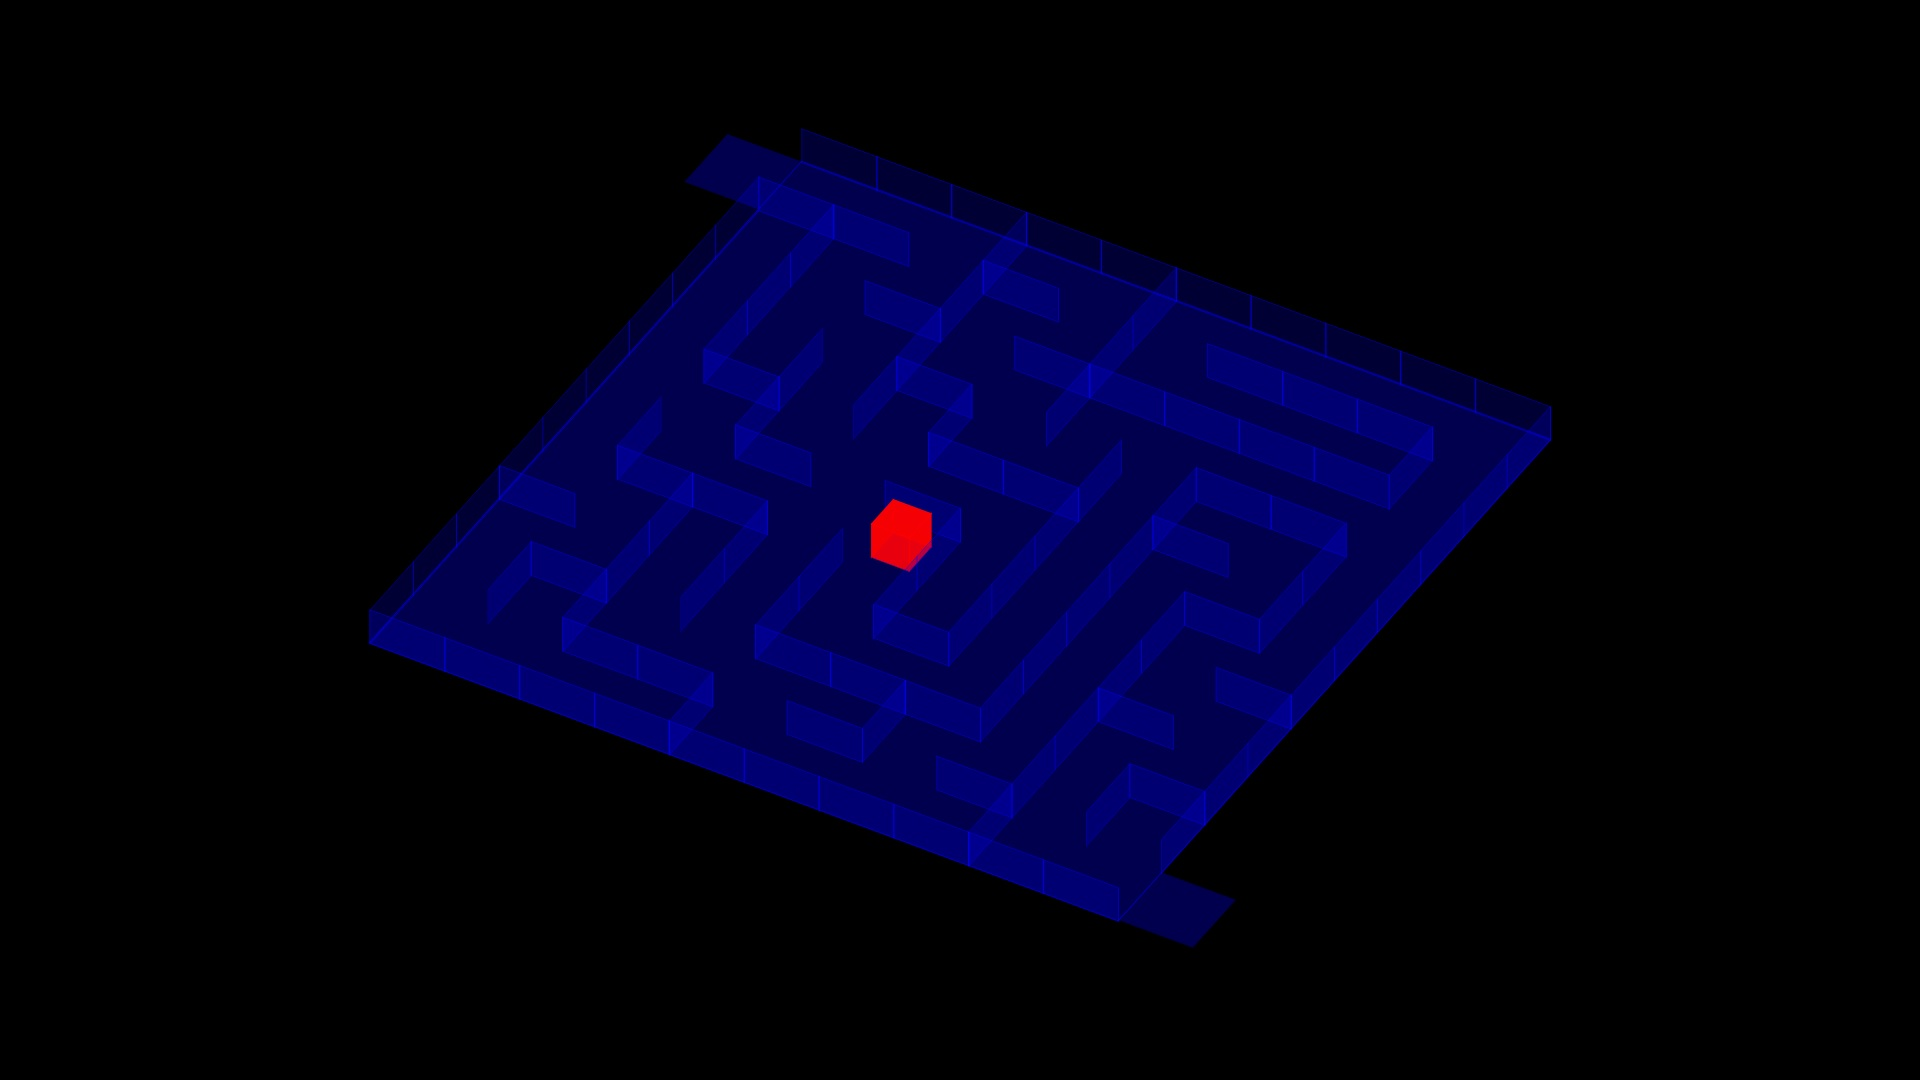
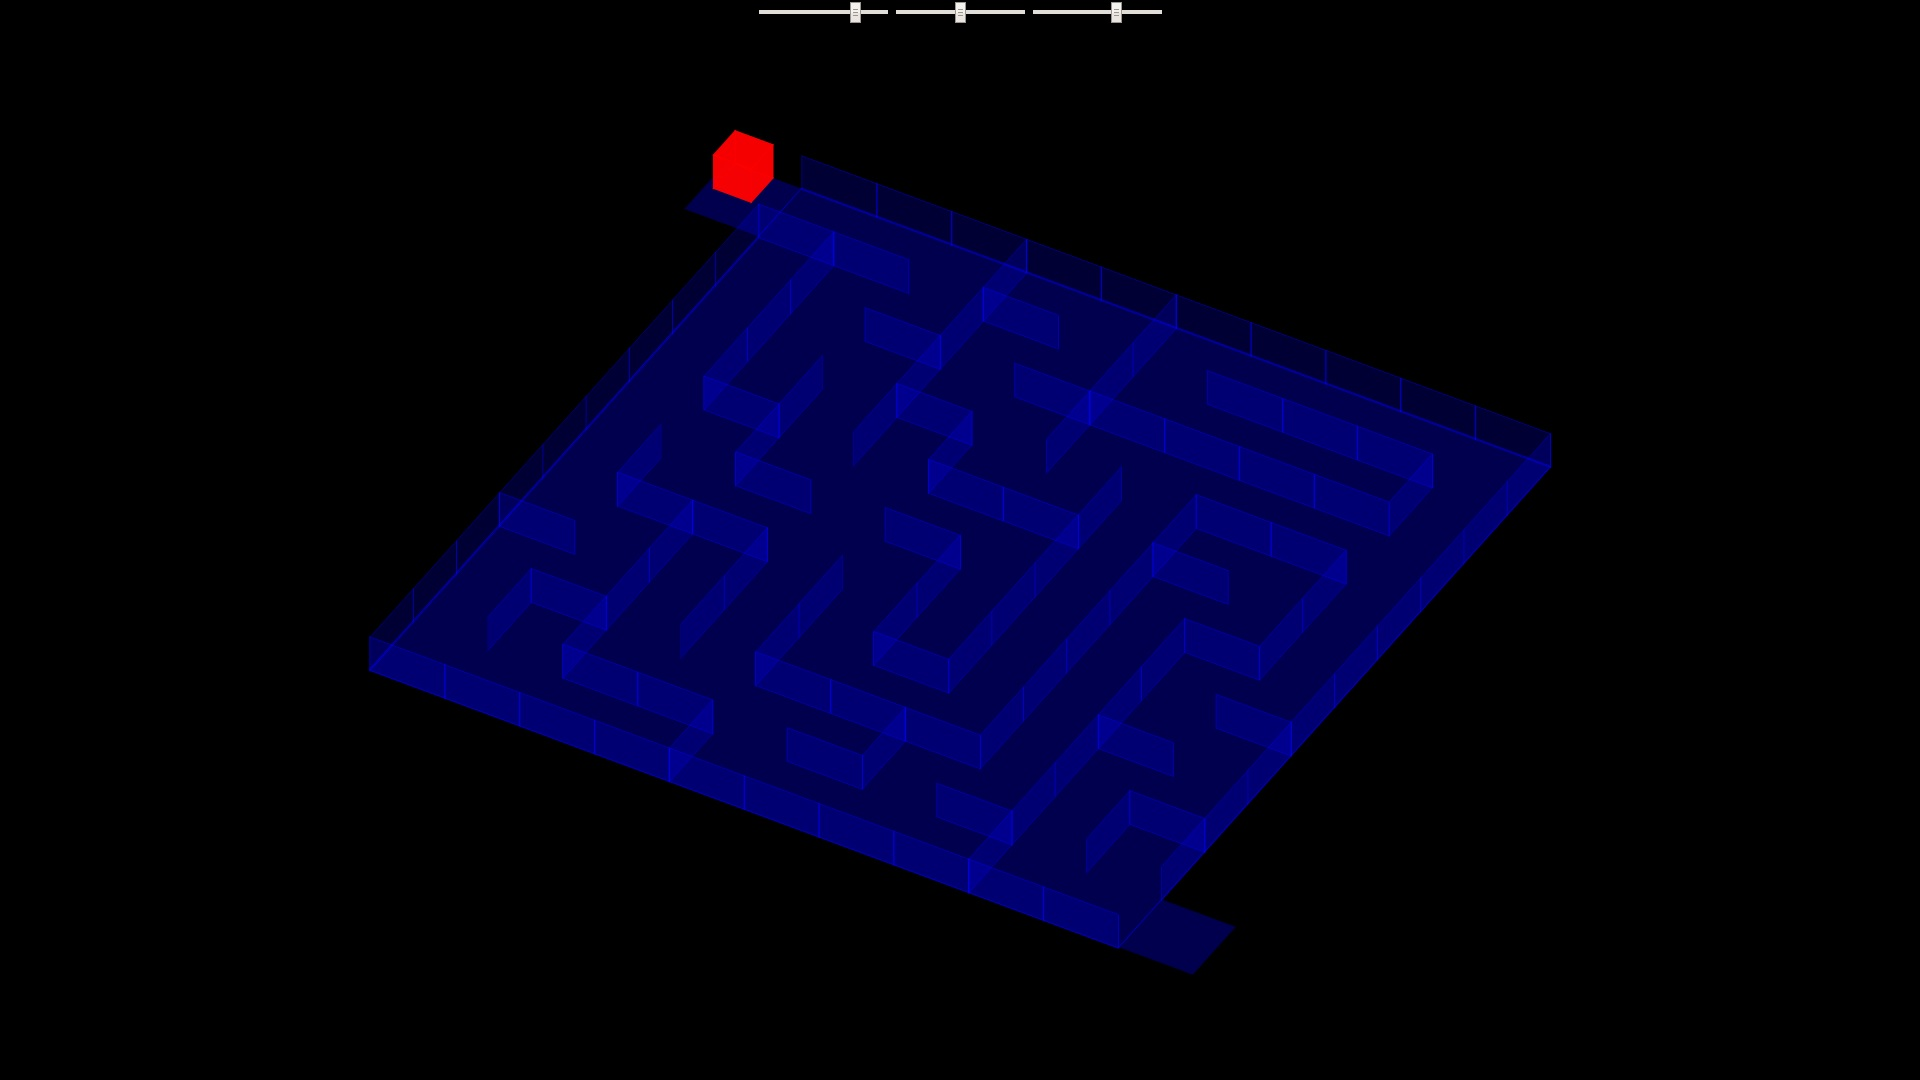
15th commit

Changed region(s): [[0.1875, 0.1222, 0.8125, 0.9167], [0.4062, 0.0, 0.5938, 0.0306]]

diff --git a/MyProject_03/script.js b/MyProject_03/script.js
@@ -1,0 +1,178 @@
+var labyrinthArray = [[[0,1,0,0],[0,1,0,1],[0,1,0,1],[0,0,1,1],[0,1,0,0],[0,0,1,1],[0,1,1,0],[0,1,0,1],[0,1,0,1],[0,1,0,1],[0,0,1,1]],	//	1
+					  [[0,0,0,0],[0,0,1,0],[0,1,1,0],[1,0,0,1],[0,1,1,0],[1,0,0,1],[1,1,0,0],[0,1,0,1],[0,1,0,1],[0,0,0,1],[1,0,1,0]],	//	2
+					  [[0,0,0,0],[1,0,1,0],[1,1,1,0],[0,0,1,1],[1,1,0,0],[0,0,1,1],[0,1,1,0],[0,1,1,1],[0,1,0,1],[0,1,0,1],[1,0,1,1]],	//	3
+					  [[0,0,0,0],[1,0,1,0],[1,0,0,0],[1,0,1,0],[0,0,1,0],[1,1,0,0],[1,0,0,1],[1,0,1,0],[0,1,0,0],[0,0,1,1],[1,0,1,0]],	//	4
+					  [[0,0,0,0],[1,1,1,0],[0,0,1,1],[1,1,0,0],[1,1,1,1],[0,1,0,1],[0,0,1,1],[1,0,1,0],[0,1,1,0],[1,0,0,1],[1,0,1,0]],	//	5
+					  [[0,0,0,0],[1,0,1,0],[1,1,0,0],[0,1,0,1],[1,1,1,1],[0,0,1,1],[1,0,1,0],[1,0,1,0],[1,0,1,0],[0,1,1,0],[1,0,0,1]],	//	6
+					  [[0,0,0,0],[1,1,0,0],[0,0,1,1],[0,0,1,0],[1,0,1,0],[1,0,1,0],[1,0,0,0],[1,0,1,0],[1,0,1,0],[1,1,0,0],[0,0,1,1]],	//	7
+					  [[0,0,0,0],[0,1,1,0],[1,0,0,1],[1,0,1,0],[1,0,1,0],[1,1,0,0],[0,1,0,1],[1,0,0,1],[1,0,1,0],[0,1,1,0],[1,0,0,1]],	//	8
+					  [[0,0,0,0],[1,0,1,0],[0,0,1,0],[1,1,0,0],[1,1,0,1],[0,1,1,1],[0,0,0,1],[0,1,1,0],[1,0,0,1],[1,0,1,0],[0,0,1,0]],	//	9
+					  [[0,0,0,0],[1,1,0,0],[1,1,0,1],[0,1,0,1],[0,0,0,1],[1,1,0,0],[0,1,0,1],[1,1,0,1],[0,0,0,1],[1,1,0,0],[1,1,0,1],[0,0,0,1]]]; // 10
+
+var fenceArray =  [[[0,-2],[8,-2],[16,-2],[24,-2],[32,-2],[40,-2],[48,-2],[56,-2],[64,-2],[72,-2],
+					[0,6], [8,6],         [24,6],                 [48,6], [56,6], [64,6],
+					              [16,14],        [32,14],[40,14],[48,14],[56,14],[64,14],
+					                      [24,22],                        [56,22],[64,22],
+					       [8,30],                [32,30],[40,30],        [56,30],
+                                  [16,38],        [32,38],                        [64,38],
+                           [8,46],[16,46],                                                [72,46],
+                    [0,54],                               [40,54],                [64,54],
+                           [8,62],                [32,62],[40,62],[48,62],                [72,62],
+                                  [16,70],[24,70],        [40,70],        [56,70],
+					[0,78],[8,78],[16,78],[24,78],[32,78],[40,78],[48,78],[56,78],[64,78],[72,78]],
+
+				   [	   [-4,10],[-4,18],[-4,26],[-4,34],[-4,42],[-4,50],[-4,58],[-4,66],[-4,74],
+				           [ 4,10],[ 4,18],[ 4,26],        [ 4,42],                [ 4,66],
+				                           [12,26],[12,34],        [12,50],[12,58],[12,66],
+				    [20,2],[20,10],[20,18],[20,26],                [20,50],[20,58],
+				                           [28,26],                [28,50],[28,58],        [28,74],
+				    [36,2],[36,10],[36,18],                [36,42],[36,50],
+				                           [44,26],[44,34],[44,42],[44,50],        [44,66],
+				                           [52,26],[52,34],[52,42],[52,50],[52,58],
+				                                           [60,42],[60,50],[60,58],[60,66],[60,74],
+				           [68,10],        [68,26],[68,34],                        [68,66],
+					[76,2],[76,10],[76,18],[76,26],[76,34],[76,42],[76,50],[76,58],[76,66]]];
+
+var x = 50;		// angle of rotation of objYard
+var y = 0;
+var z = 30;
+
+var x2 = -6;	// coordinates of objRabbit
+var y2 = 2;
+
+$('body').css({	'margin': '0 auto',
+				'background-color': 'black',
+				'overflow': 'hidden',
+				'text-align': 'center'
+			});
+
+var objYard = document.createElement('div');
+$('body').append(objYard);
+$(objYard).addClass('preserve3d');
+objYard.style.transform = 'rotateX(' + x + 'deg) rotateY(' + y + 'deg) rotateZ(' + z + 'deg)';
+$(objYard).css({	'height': '80vh',
+					'width': '80vh',
+					'margin': '10vh auto',
+					'border': '1px solid rgba(0,0,255,0.5)',
+					'background-color': 'rgba(0,0,255,0.3)'
+				});
+
+var objStart = document.createElement('div');
+$(objYard).append(objStart);
+objStart.style.transform = 'translateX(-8vh)';
+$(objStart).css({	'height': '8vh',
+					'width': '8vh',
+					'position': 'absolute',
+					'background-color': 'rgba(0,0,255,0.3)'
+				});
+
+var objFinish = document.createElement('div');
+$(objYard).append(objFinish);
+objFinish.style.transform = 	'translateX(80vh) translateY(72vh) ';
+$(objFinish).css({	'height': '8vh',
+					'width': '8vh',
+					'position': 'absolute',
+					'background-color': 'rgba(0,0,255,0.3)'
+				});
+
+function createFence(a,r) {
+	var objFence = document.createElement('div');
+	$(objYard).append(objFence);
+	objFence.style.transform = 	'translateX(' + a[0] + 'vh) ' + 
+								'translateY(' + a[1] + 'vh) ' +
+								'translateZ(2vh) ' +
+								'rotateX(90deg)' + r;
+	$(objFence).css({	'height': '4vh',
+						'width': '8vh',
+						'position': 'absolute',
+						'border': '1px solid rgba(0,0,255,0.5)',
+						'background-color': 'rgba(0,0,255,0.2)'
+					});
+}
+
+for (var i = 0; i < fenceArray[0].length; i++) {
+	createFence(fenceArray[0][i],'');
+}
+for (var i = 0; i < fenceArray[1].length; i++) {
+	createFence(fenceArray[1][i],' rotateY(90deg)');
+}
+
+var objRabbit = document.createElement('div');
+$(objYard).append(objRabbit);
+objRabbit.style.transform = 'translateX(' + x2 + 'vh) translateY(' + y2 + 'vh) translateZ(2vh)';
+objRabbit.style.transition = 'transform 0.25s';
+$(objRabbit).css({	'height': '8vh',
+					'width': '8vh',
+					'position': 'absolute'
+				});
+
+var rabbitArray = ['', 'rotateY(180deg)', 'rotateY(-90deg)', 'rotateY(90deg)', 'rotateX(90deg)', 'rotateX(-90deg)'];
+
+for (var i = 0; i < rabbitArray.length; i++) {
+	var obj = document.createElement('div');
+	$(objRabbit).addClass('preserve3d');
+	$(objRabbit).append(obj);
+	$(obj).css({	'height': '4vh',
+					'width': '4vh',
+					'margin': '0 auto',
+					'position': 'absolute',
+					'border': '1px solid rgba(255,0,0,0.2)',
+					'background-color': 'rgba(255,0,0,0.8)',
+					'transform': rabbitArray[i] + 'translateZ(2vh)'
+				});
+};
+
+var IntervalId = setInterval(function() {
+	objRabbit.style.transform = 'translateX(' + x2 + 'vh) translateY(' + y2 + 'vh) translateZ(4vh)';
+	objRabbit.style.transition = 'transform 0.25s';
+
+	var TimerId = setTimeout(function() {
+		objRabbit.style.transform = 'translateX(' + x2 + 'vh) translateY(' + y2 + 'vh) translateZ(2vh)';
+	}, 250);
+} ,500);
+
+window.onkeydown = function(e) {
+	var x3 = (x2 + 6) / 8;
+	var y3 = (y2 - 2) / 8;
+	if (e.keyCode === 38) {
+		if (labyrinthArray[y3][x3][0] === 1) {
+			y2 -= 8
+		}
+	} else if (e.keyCode === 39) {
+		if (labyrinthArray[y3][x3][1] === 1) {
+			x2 += 8
+		}
+	} else if (e.keyCode === 40) {
+		if (labyrinthArray[y3][x3][2] === 1) {
+			y2 += 8
+		}
+	} else if (e.keyCode === 37) {
+		if (labyrinthArray[y3][x3][3] === 1) {
+			x2 -= 8
+		}
+	}
+
+	if (x2 === 82 && y2 === 74) {
+		x2 = -6;
+		y2 = 2;
+	}
+	objRabbit.style.transform = 'translateX(' + x2 + 'vh) translateY(' + y2 + 'vh)  translateZ(2vh)';
+}
+
+function colorFunX() {
+	x = $('#xColorId').val() / 2;
+	objYard.style.transform = 'rotateX(' + x + 'deg) rotateY(' + y + 'deg) rotateZ(' + z + 'deg)';
+	$('#xColorId').blur();
+}
+
+function colorFunY() {
+	y = $('#yColorId').val() / 2;
+	objYard.style.transform = 'rotateX(' + x + 'deg) rotateY(' + y + 'deg) rotateZ(' + z + 'deg)';
+	$('#yColorId').blur();
+}
+
+function colorFunZ() {
+	z = $('#zColorId').val() / 2;
+	objYard.style.transform = 'rotateX(' + x + 'deg) rotateY(' + y + 'deg) rotateZ(' + z + 'deg)';
+	$('#zColorId').blur();
+}

diff --git a/index.html b/index.html
@@ -10,14 +10,12 @@
 
 	<div class="main">
 		<div class="coverFon">
-			<h1>Sergey Dobrev</h1>	
+			<h1>Dobrev Sergey</h1>	
 			<div class="coverPhoto">
 				<div class="coverPhoto2"></div>
 			</div>
 		</div>
-<!-- 		<div class="coverPhoto skillsBlock">link</div>
-<div class="coverPhoto skillsBlock">skills</div>
- -->
+
 		<a class="block" href="MyProject_04/index.html" target="_blank">
 			<img src="css/BGp01.jpg" title="JS jQuery project">
 		</a>
@@ -38,8 +36,8 @@
 			<img src="css/BGp05.jpg" title="JS jQuery Bootstrap project">
 		</a>
 
-		<a class="block" href="MyProject_01/index.html" target="_blank">
-			<img src="css/BGp06.jpg" title="project">
+		<a class="block" href="MyProject_03/index.html" target="_blank">
+			<img src="css/BGp06.jpg" title="JS jQuery project">
 		</a>
 
 		<a class="block" href="MyProject_01/index.html" target="_blank">
@@ -52,6 +50,10 @@
 
 		<a class="block" href="MyProject_09_old_HTML5-CCS3_gridelicious_6/index.html" target="_blank">
 			<img src="css/BGp11.jpg" title="HTM5 CSS3 project">
+		</a>
+
+		<a class="block" href="MyProject_09_old_HTML5-CCS3_gridelicious_6/index.html" target="_blank">
+			<img src="css/BGp12.jpg" title="HTM5 CSS3 project">
 		</a>
 
 		<a class="block" href="MyProject_09_old_HTML5-CCS3_gridelicious_6/index.html" target="_blank">

diff --git a/MyProject_03/index.html b/MyProject_03/index.html
@@ -1,0 +1,20 @@
+<!DOCTYPE html>
+<html lang="en">
+<head>
+
+	<meta charset="UTF-8">
+	<title>MyProject_03 Labyrinth</title>
+	<link rel="stylesheet" href="style.css">
+	<script src="https://ajax.googleapis.com/ajax/libs/jquery/3.2.1/jquery.min.js"></script>
+	
+</head>
+<body>
+
+	<input type="range" name="" id="xColorId" min = -180 max = 180 oninput="colorFunX()" value="100"></input>
+	<input type="range" name="" id="yColorId" min = -180 max = 180 oninput="colorFunY()" value="0"></input>
+	<input type="range" name="" id="zColorId" min = -180 max = 180 oninput="colorFunZ()" value="60"></input>
+
+	<script type="text/javascript" src="script.js"></script>
+
+</body>
+</html>

diff --git a/MyProject_03/style.css b/MyProject_03/style.css
@@ -1,0 +1,3 @@
+.preserve3d {
+	transform-style: preserve-3d;
+}
